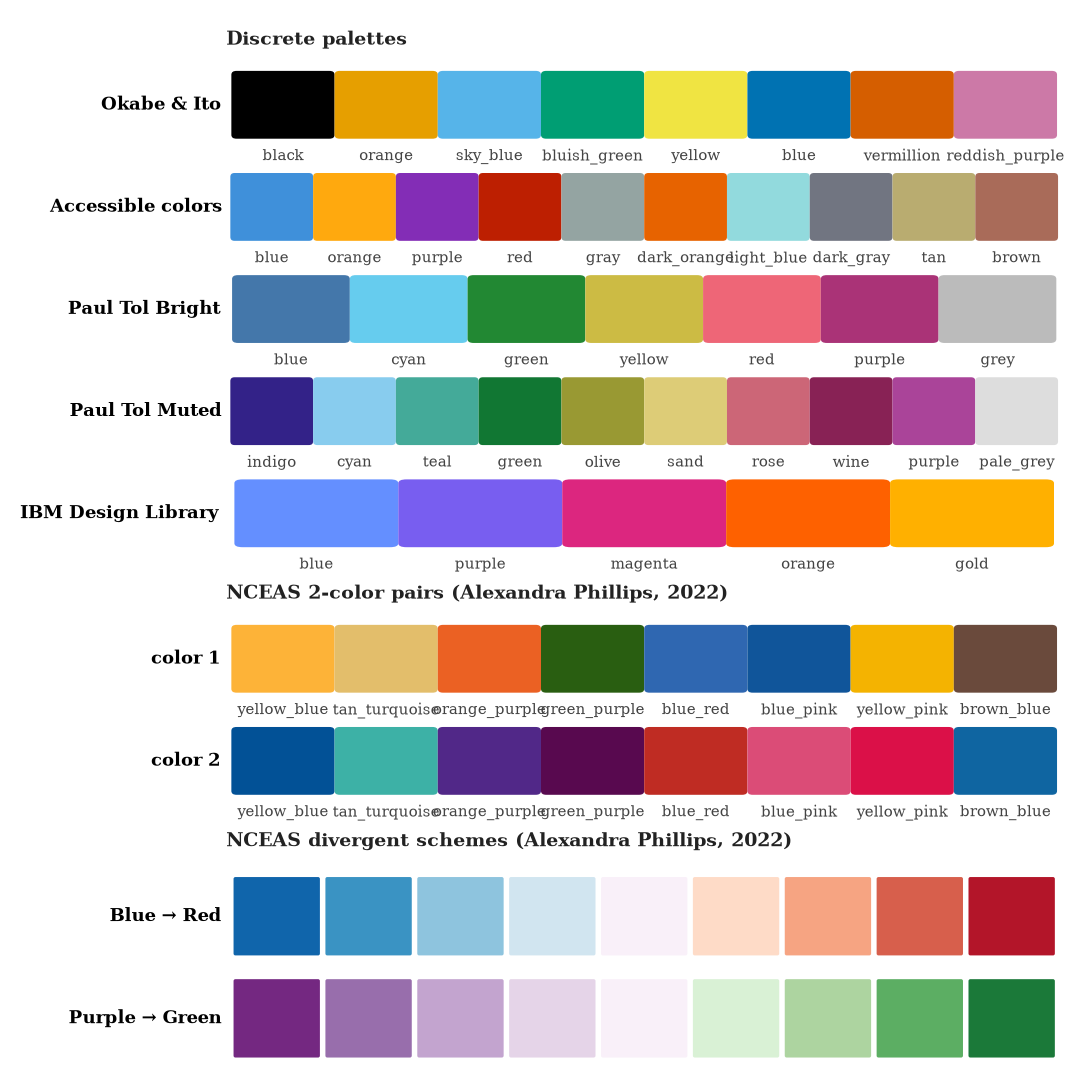
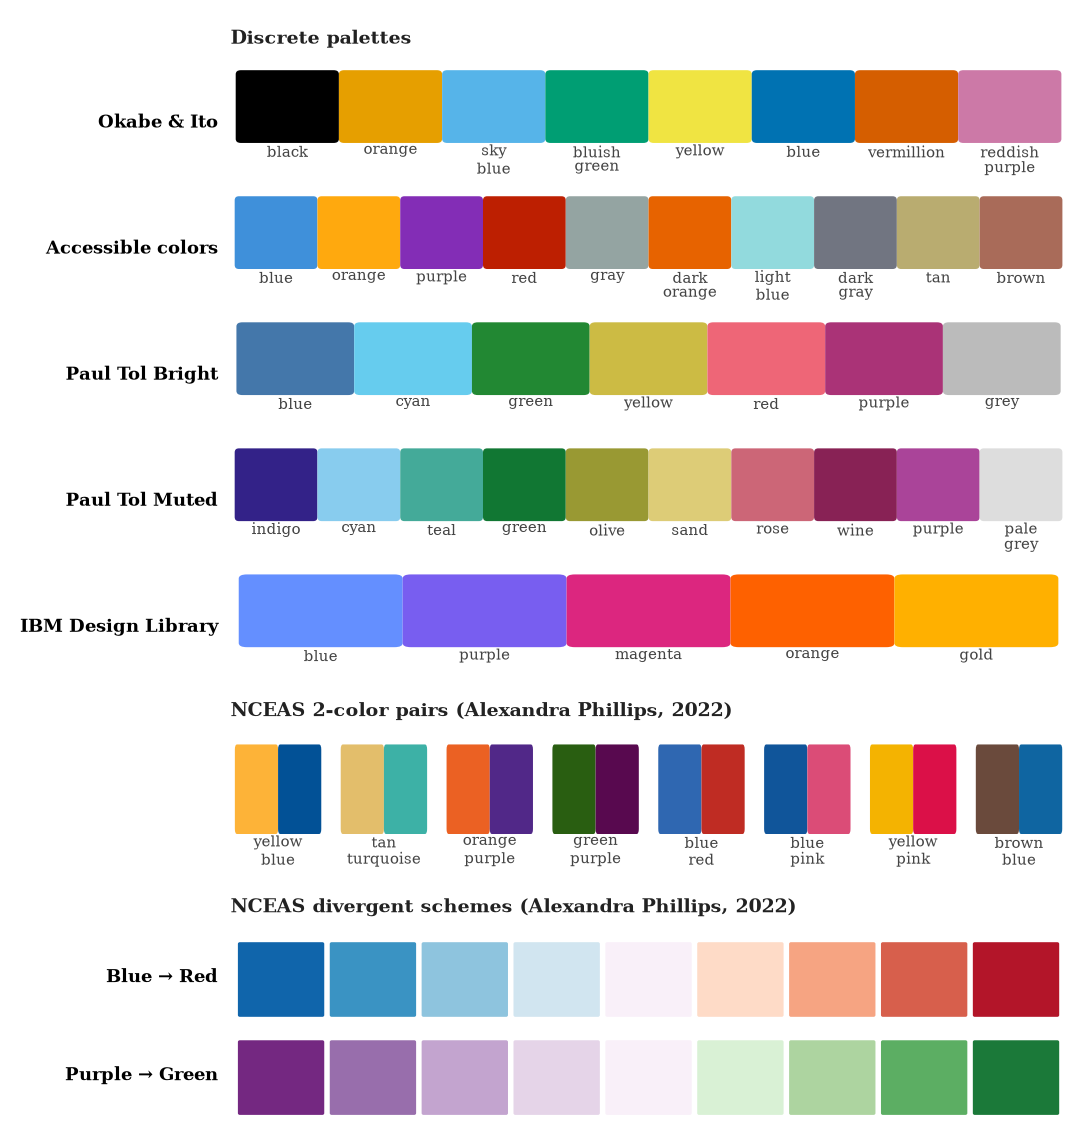
Fix Paul Tol link; redesign color overview; fix Paul Tol link everywhere
- Update all Paul Tol links to direct PDF (personal.sron.nl/~pault/data/colourschemes.pdf)
- Color overview: NCEAS pairs now shown side-by-side per pair with gap between pairs
- Color overview: all swatch labels split at underscore onto two lines (no overlap)
- Color overview: switch label positioning to transAxes for consistent alignment
- Color overview: 11-row layout replacing old 2-row pair display

diff --git a/cb_colors/palettes.py b/cb_colors/palettes.py
@@ -52,7 +52,7 @@ def paul_tol_bright() -> dict:
     """Paul Tol's Bright palette — vivid, high-contrast, good for scatter plots and lines.
 
     7 colors. Official values from Paul Tol's notes (2021).
-    Reference: https://personal.sron.nl/~pault/
+    Reference: https://personal.sron.nl/~pault/data/colourschemes.pdf
     """
     return {
         "blue":   _to_hex((68,  119, 170)),  # #4477AA
@@ -69,7 +69,7 @@ def paul_tol_muted() -> dict:
     """Paul Tol's Muted palette — softer tones, good for filled areas.
 
     10 colors. Official values from Paul Tol's notes (2021).
-    Reference: https://personal.sron.nl/~pault/
+    Reference: https://personal.sron.nl/~pault/data/colourschemes.pdf
     """
     return {
         "indigo":    _to_hex((51,  34,  136)),  # #332288

diff --git a/README.md b/README.md
@@ -709,7 +709,7 @@ Depending on which palettes you use from `cb_colors`, cite the appropriate origi
 | Palette | Citation |
 |---|---|
 | `okabe_and_ito` | Okabe, M., & Ito, K. (2008). *Color universal design (CUD): How to make figures and presentations that are friendly to colorblind people.* [jfly.uni-koeln.de/color](https://jfly.uni-koeln.de/color/) (Original work published 2002) |
-| `paul_tol_bright`, `paul_tol_muted` | Tol, P. (2021). *Paul Tol's Notes: Introduction to Color Schemes.* [personal.sron.nl/~pault/](https://personal.sron.nl/~pault/) |
+| `paul_tol_bright`, `paul_tol_muted` | Tol, P. (2021). *Paul Tol's Notes: Introduction to Color Schemes.* [personal.sron.nl/~pault/](https://personal.sron.nl/~pault/data/colourschemes.pdf) |
 | `accessible_colors` | Petroff, M. A. (2021). *A hitchhiker's guide to choosing colors for scientific figures.* [arXiv:2107.02270](https://arxiv.org/abs/2107.02270) |
 | `ibm_design_library` | IBM Design Language — Color. [ibm.com/design/language/color/](https://www.ibm.com/design/language/color/) |
 | `nceas_two_color_pairs`, `nceas_blue_to_red`, `nceas_purple_to_green` | Phillips, A. (2022). *Colorblind Safe Color Schemes.* NCEAS Science Communication Resource Corner. [nceas.ucsb.edu](https://www.nceas.ucsb.edu/sites/default/files/2022-06/Colorblind%20Safe%20Color%20Schemes.pdf) |
@@ -723,7 +723,7 @@ If you use `matplotlib`, you should also cite:
 ## 8. Further Reading
 
 - [**mackelab/figure_tutorial**](https://github.com/mackelab/figure_tutorial) — the tutorial that inspired this one; focuses on Python-based figure composition with svgutils, a different and complementary approach
-- [**Paul Tol's colorblind-friendly palettes**](https://personal.sron.nl/~pault/) — the reference for the `paul_tol_bright` and `paul_tol_muted` palettes in this repo
+- [**Paul Tol's colorblind-friendly palettes**](https://personal.sron.nl/~pault/data/colourschemes.pdf) — the reference for the `paul_tol_bright` and `paul_tol_muted` palettes in this repo
 - [**Okabe & Ito colorblind palette**](https://jfly.uni-koeln.de/color/) — the original paper proposing the `okabe_and_ito` palette
 - [**UCSB colorblind-safe schemes reference**](https://www.nceas.ucsb.edu/sites/default/files/2022-06/Colorblind%20Safe%20Color%20Schemes.pdf) — a useful overview of multiple palettes with visual comparisons
 - [**Coblis: color blindness simulator**](https://www.color-blindness.com/coblis-color-blindness-simulator/) — paste your figure to see how it looks under different types of color vision deficiency

diff --git a/CLAUDE.md b/CLAUDE.md
@@ -60,7 +60,7 @@ PAUL_TOL_BRIGHT = {
     "red":    "#EE6677",
     "purple": "#AA3377",
     "grey":   "#BBBBBB",
-}  # Tol (2021) https://personal.sron.nl/~pault/
+}  # Tol (2021) https://personal.sron.nl/~pault/data/colourschemes.pdf
 
 PAUL_TOL_MUTED = {
     "indigo":    "#332288",
@@ -73,7 +73,7 @@ PAUL_TOL_MUTED = {
     "wine":      "#882255",
     "purple":    "#AA4499",
     "pale_grey": "#DDDDDD",
-}  # Tol (2021) https://personal.sron.nl/~pault/
+}  # Tol (2021) https://personal.sron.nl/~pault/data/colourschemes.pdf
 
 IBM_DESIGN_LIBRARY = {
     "blue":    "#648FFF",
